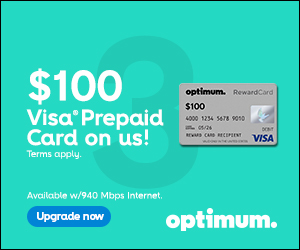
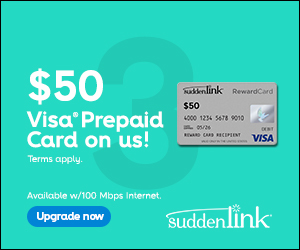
Altice Update

diff --git a/A/Altice/2021/September/ads/SDL_ANI_UPG_20(100Mbps)/728x90/728x90.html b/A/Altice/2021/September/ads/SDL_ANI_UPG_20(100Mbps)/728x90/728x90.html
@@ -119,9 +119,9 @@
         font-size: 72%;
       }
       .price-text {
-        top: 26px;
+        top: 10px;
         left: 22px;
-        font-size: 24px;
+        font-size: 21px;
         line-height: 1.1;
       }
       .eyebrow-text {
@@ -136,8 +136,8 @@
         font-family: Altice-Regular;
       }
       .disclaimer {
-        top: 57px;
-        left: 23px;
+        top: 71px;
+        left: 22px;
         font-size: 10px;
         line-height: 1;
         font-family: Altice-Regular;
@@ -155,14 +155,13 @@ amo.registerClick("clickUrl", "https://www.altice.com");
 amo.registerAttribute("ctaText", "TEXT", "Upgrade now");
 amo.registerAttribute("frameText1", "TEXT", "<div style='top: 8px;left: 25px;font-size: 18.3px;'>Suddenlink introduces</div>");
 amo.registerAttribute("frameText12", "TEXT", "&nbsp;");
-amo.registerAttribute("frameText21", "TEXT", "<div class='price-text'>Upgrade to <font class='coloredText'>1 Gig</font> Internet at our best price</div>");
-amo.registerAttribute("frameText22", "TEXT", "<div class='disclaimer'>Wired connection up to 940 Mbps. WiFi speeds may vary. Speeds, prices & availablity vary by area.</div>");
-amo.registerAttribute("frameText31", "TEXT", "<div class='title text-white'>“Best Gigabit Deal”</div>");
-amo.registerAttribute("frameText32", "TEXT", "<div class='title text-white' style='top: 52px;font-size: 16px;'>– CNET May 2021</div>");
+amo.registerAttribute("frameText21", "TEXT", "<div class='price-text'>Upgrade to 100 Mbps<br>Internet <font class='coloredText'>$20</font> <small class='monthly'>more /mo.</small><div class='price-terms'>Plus taxes</div></div>");
+amo.registerAttribute("frameText22", "TEXT", "<div class='disclaimer'>Wired connection up to 100 Mbps. WiFi speeds may vary. Speeds, prices & availablity vary by area.</div>");
+amo.registerAttribute("frameText31", "TEXT", "<div class='title text-white'>No data caps<br>& change your speed anytime</div>");
 amo.registerAttribute("frameText41", "TEXT", "<div class='text-white' style='top: 8px;left: 23px;font-size: 30px;line-height: 1;'>$50</div><div class='text-white' style='top: 37px;left: 23px;font-size: 22px;line-height: 1;'>Visa<sup style='vertical-align: top;font-size: 60%;'>®</sup> Prepaid<br>Card on us!</div>");
-amo.registerAttribute("frameText42", "TEXT", "<div class='disclaimer text-white' style='top: 66px;left: 304px;font-size: 9.9px;'>Terms apply. Available w/940 Mbps Internet.</div>");
-amo.registerAttribute("frameText51", "TEXT", "<div class='price-text' style='top:27px;'><div class='eyebrow-text text-blue'>Exclusive</div>Upgrade to<br><font class='coloredText'>1 Gig</font> Internet</div>");
-amo.registerAttribute("frameText52", "TEXT", "<div style='top: 9px;left: 265px;width: 360px;transform: scale(0.78);transform-origin: top left;'><div class='bulletedText'>$50 Visa<sup style='vertical-align: top;font-size: 75%;'>®</sup> Prepaid Card</div><div class='bulletedText'>Built in security<div class='AlticeRegular' style='margin-top: 3px;font-size: 64%;'>Terms apply.</div></div></div>");
+amo.registerAttribute("frameText42", "TEXT", "<div class='disclaimer text-white' style='top: 66px;left: 304px;font-size: 9.9px;'>Terms apply. Available w/100 Mbps Internet.</div>");
+amo.registerAttribute("frameText51", "TEXT", "<div class='price-text' style='top:23px;'><div class='eyebrow-text text-blue'>Exclusive</div>Upgrade to 100 Mbps<br>Internet <font class='coloredText'>$20</font> <small class='monthly'>more /mo.</small><div class='price-terms'>Plus taxes</div></div>");
+amo.registerAttribute("frameText52", "TEXT", "<div style='top: 9px;left: 335px;'><div class='text-blue' style='font-size: 13px;'>Plus get:</div><div style='width: 360px;transform: scale(0.78);transform-origin: top left;'><div class='bulletedText'>$50 Visa<sup style='vertical-align: top;font-size: 75%;'>®</sup> Prepaid Card</div><div class='bulletedText'>No data caps<div class='AlticeRegular' style='margin-top: 3px;font-size: 64%;'>Terms apply.</div></div></div></div>");
 </script>
 <!-- End of overrode asset attributes values -->
 <script type="text/javascript">
@@ -205,7 +204,6 @@ amo.registerAttribute("frameText52", "TEXT", "<div style='top: 9px;left: 265px;w
       name: 'frame3',
       assets: {
         frameAsset3: "728x90_OPT_Upgrade_1Gig_Internet_Img_NumberTwo_Frame_03.png",
-        frameAsset31: "728x90_OPT_Upgrade_1Gig_Internet_Logo_Cnet_Frame_03.png",
       },
       style: {
         

diff --git a/A/Altice/2021/September/ads/SDL_ANI_UPG_20(100Mbps)/300x250/300x250.html b/A/Altice/2021/September/ads/SDL_ANI_UPG_20(100Mbps)/300x250/300x250.html
@@ -158,14 +158,13 @@ amo.registerClick("clickUrl", "https://www.altice.com");
 amo.registerAttribute("ctaText", "TEXT", "Upgrade now");
 amo.registerAttribute("frameText1", "TEXT", "<div style='top: 63px;left: 33px;font-size: 22.5px;'>Suddenlink introduces</div>");
 amo.registerAttribute("frameText12", "TEXT", "&nbsp;");
-amo.registerAttribute("frameText21", "TEXT", "<div class='price-text'>Upgrade to<br><font class='coloredText'>1 Gig</font> Internet at<br>our best price</div>");
-amo.registerAttribute("frameText22", "TEXT", "<div class='disclaimer'>Wired connection up to 940 Mbps.<br>WiFi speeds may vary. Speeds,<br>prices & availablity vary by area.</div>");
-amo.registerAttribute("frameText31", "TEXT", "<div class='title text-white'>“Best Gigabit Deal”</div>");
-amo.registerAttribute("frameText32", "TEXT", "<div class='title text-white' style='top: 114px;font-size: 20px;'>– CNET May 2021</div>");
+amo.registerAttribute("frameText21", "TEXT", "<div class='price-text'>Upgrade to<br>100 Mbps Internet<br><font class='coloredText'>$20</font> <small class='monthly'>more /mo.</small><div class='price-terms'>Plus taxes</div></div>");
+amo.registerAttribute("frameText22", "TEXT", "<div class='disclaimer'>Wired connection up to 100 Mbps.<br>WiFi speeds may vary. Speeds,<br>prices & availablity vary by area.</div>");
+amo.registerAttribute("frameText31", "TEXT", "<div class='title text-white'>No data caps<br>& change your speed anytime</div>");
 amo.registerAttribute("frameText41", "TEXT", "<div class='text-white' style='top: 65px;left: 26px;font-size: 44px;line-height: 1;'>$50</div><div class='text-white' style='top: 110px;left: 27px;font-size: 22px;line-height: 0.95;'>Visa<sup style='vertical-align: top;font-size: 40%;margin-right: -4px;'>®</sup> Prepaid<br>Card on us!</div><div class='AlticeRegular text-white' style='position: absolute;top: 153px;left: 28px;font-size: 9px;'>Terms apply.</div>");
-amo.registerAttribute("frameText42", "TEXT", "<div class='disclaimer text-white'>Available w/940 Mbps Internet.</div>");
-amo.registerAttribute("frameText51", "TEXT", "<div class='price-text'><div class='eyebrow-text text-blue'>Exclusive</div>Upgrade to<br><font class='coloredText'>1 Gig</font> Internet</div>");
-amo.registerAttribute("frameText52", "TEXT", "<div style='top: 137px;left: 26px;width: 360px;transform: scale(0.78);transform-origin: top left;'><div class='bulletedText'>$50 Visa<sup style='vertical-align: top;font-size: 75%;'>®</sup> Prepaid Card</div><div class='bulletedText'>Built in security<div class='AlticeRegular' style='margin-top: 3px;font-size: 64%;'>Terms apply.</div></div></div>");
+amo.registerAttribute("frameText42", "TEXT", "<div class='disclaimer text-white'>Available w/100 Mbps Internet.</div>");
+amo.registerAttribute("frameText51", "TEXT", "<div class='price-text' style='top:39px;'><div class='eyebrow-text text-blue'>Exclusive</div>Upgrade to<br>100 Mbps Internet<br><font class='coloredText'>$20</font> <small class='monthly'>more /mo.</small><div class='price-terms'>Plus taxes</div></div>");
+amo.registerAttribute("frameText52", "TEXT", "<div style='top: 137px;left: 26px;'><div class='text-blue' style='font-size: 15.5px;'>Plus get:</div><div style='width: 360px;transform: scale(0.78);transform-origin: top left;'><div class='bulletedText'>$50 Visa<sup style='vertical-align: top;font-size: 75%;'>®</sup> Prepaid Card</div><div class='bulletedText'>No data caps<div class='AlticeRegular' style='margin-top: 3px;font-size: 64%;'>Terms apply.</div></div></div></div>");
 </script>
 <!-- End of overrode asset attributes values -->
 <script type="text/javascript">
@@ -208,7 +207,6 @@ amo.registerAttribute("frameText52", "TEXT", "<div style='top: 137px;left: 26px;
       name: 'frame3',
       assets: {
         frameAsset3: "300x250_OPT_Upgrade_1Gig_Internet_Img_NumberTwo_Frame_03.png",
-        frameAsset31: "300x250_OPT_Upgrade_1Gig_Internet_Logo_Cnet_Frame_03.png",
       },
       style: {
         

diff --git a/A/Altice/2021/September/ads/SDL_ANI_UPG_20(100Mbps)/160x600/160x600.html b/A/Altice/2021/September/ads/SDL_ANI_UPG_20(100Mbps)/160x600/160x600.html
@@ -159,14 +159,14 @@ amo.registerClick("clickUrl", "https://www.altice.com");
 amo.registerAttribute("ctaText", "TEXT", "Upgrade now");
 amo.registerAttribute("frameText1", "TEXT", "<div style='top: 139px;left: 16px;font-size: 12.8px;line-height:1.05;'>Suddenlink<br>introduces</div>");
 amo.registerAttribute("frameText12", "TEXT", "&nbsp;");
-amo.registerAttribute("frameText21", "TEXT", "<div class='price-text' style='top:140px;'>Upgrade to<br><font class='coloredText'>1 Gig</font> Internet at<br>our best price</div>");
-amo.registerAttribute("frameText22", "TEXT", "<div class='disclaimer'>Wired connection up to<br>940 Mbps. WiFi speeds<br>may vary. Speeds, prices &<br>availablity vary by area.</div>");
+amo.registerAttribute("frameText21", "TEXT", "<div class='price-text' style='top:140px;'>Upgrade to<br>100 Mbps Internet at<br>our best price</div>");
+amo.registerAttribute("frameText22", "TEXT", "<div class='disclaimer'>Wired connection up to<br>100 Mbps. WiFi speeds<br>may vary. Speeds, prices &<br>availablity vary by area.</div>");
 amo.registerAttribute("frameText31", "TEXT", "<div class='title text-white'>“Best Gigabit Deal”</div>");
 amo.registerAttribute("frameText32", "TEXT", "<div class='title text-white' style='top: 205px;font-size: 15px;'>– CNET May 2021</div>");
 amo.registerAttribute("frameText41", "TEXT", "<div class='text-white' style='top: 138px;left: 10px;width: 140px;font-size: 32px;text-align: center;line-height: 1;'>$50</div><div class='text-white' style='top: 168px;left: 10px;width: 140px;font-size: 20px;text-align: center;line-height: 1.05;'>Visa<sup style='vertical-align: top;font-size: 60%;'>®</sup> Prepaid<br>Card on us!</div><div class='AlticeRegular text-white' style='position: absolute;top: 208px;left: 10px;width: 140px;text-align: center;font-size: 10px;'>Terms apply.</div>");
-amo.registerAttribute("frameText42", "TEXT", "<div class='disclaimer text-white'>Available w/940 Mbps Internet.</div>");
-amo.registerAttribute("frameText51", "TEXT", "<div class='price-text'><div class='eyebrow-text text-blue'>Exclusive</div>Upgrade to<br><font class='coloredText'>1 Gig</font> Internet</div>");
-amo.registerAttribute("frameText52", "TEXT", "<div style='top: 280px;left: 16px;width: 150px;transform: scale(0.83);transform-origin: top left;'><div class='bulletedText'>$50 Visa<sup style='vertical-align: top;font-size: 75%;'>®</sup> Prepaid Card</div><div class='bulletedText'>Built in security<div class='AlticeRegular' style='margin-top: 3px;font-size: 64%;'>Terms apply.</div></div></div>");
+amo.registerAttribute("frameText42", "TEXT", "<div class='disclaimer text-white'>Available w/100 Mbps Internet.</div>");
+amo.registerAttribute("frameText51", "TEXT", "<div class='price-text'><div class='eyebrow-text text-blue'>Exclusive</div>Upgrade to<br>100 Mbps Internet</div>");
+amo.registerAttribute("frameText52", "TEXT", "<div style='top: 280px;left: 16px;width: 150px;transform: scale(0.83);transform-origin: top left;'><div class='bulletedText'>$50 Visa<sup style='vertical-align: top;font-size: 75%;'>®</sup> Prepaid Card</div><div class='bulletedText'>No data caps<div class='AlticeRegular' style='margin-top: 3px;font-size: 64%;'>Terms apply.</div></div></div>");
 </script>
 <!-- End of overrode asset attributes values -->
 <script type="text/javascript">

diff --git a/A/Altice/2021/September/ads/SDL_ANI_UPG_20(100Mbps)/300x600/300x600.html b/A/Altice/2021/September/ads/SDL_ANI_UPG_20(100Mbps)/300x600/300x600.html
@@ -158,14 +158,14 @@ amo.registerClick("clickUrl", "https://www.altice.com");
 amo.registerAttribute("ctaText", "TEXT", "Upgrade now");
 amo.registerAttribute("frameText1", "TEXT", "<div style='top: 149px;left: 29px;font-size: 22.5px;'>Suddenlink introduces</div>");
 amo.registerAttribute("frameText12", "TEXT", "&nbsp;");
-amo.registerAttribute("frameText21", "TEXT", "<div class='price-text'>Upgrade to<br><font class='coloredText'>1 Gig</font> Internet at<br>our best price</div>");
-amo.registerAttribute("frameText22", "TEXT", "<div class='disclaimer'>Wired connection up to 940 Mbps.<br>WiFi speeds may vary. Speeds,<br>prices & availablity vary by area.</div>");
+amo.registerAttribute("frameText21", "TEXT", "<div class='price-text'>Upgrade to<br>100 Mbps Internet at<br>our best price</div>");
+amo.registerAttribute("frameText22", "TEXT", "<div class='disclaimer'>Wired connection up to 100 Mbps.<br>WiFi speeds may vary. Speeds,<br>prices & availablity vary by area.</div>");
 amo.registerAttribute("frameText31", "TEXT", "<div class='title text-white'>“Best Gigabit Deal”</div>");
 amo.registerAttribute("frameText32", "TEXT", "<div class='title text-white' style='top: 229px;font-size: 20px;'>– CNET May 2021</div>");
 amo.registerAttribute("frameText41", "TEXT", "<div class='text-white' style='top: 149px;left: 30px;width: 240px;font-size: 50px;text-align: center;line-height: 1;'>$50</div><div class='text-white' style='top: 196px;left: 30px;width: 240px;font-size: 28px;text-align: center;line-height: 1.1;'>Visa<sup style='vertical-align: top;font-size: 60%;'>®</sup> Prepaid<br>Card on us!</div><div class='AlticeRegular text-white' style='position: absolute;top: 253px;left: 30px;width: 240px;text-align: center;font-size: 14px;'>Terms apply.</div>");
-amo.registerAttribute("frameText42", "TEXT", "<div class='disclaimer text-white'>Available w/940 Mbps Internet.</div>");
-amo.registerAttribute("frameText51", "TEXT", "<div class='price-text'><div class='eyebrow-text text-blue'>Exclusive</div>Upgrade to<br><font class='coloredText'>1 Gig</font> Internet</div>");
-amo.registerAttribute("frameText52", "TEXT", "<div style='top: 300px;left: 33px;width: 360px;transform: scale(1);transform-origin: top left;'><div class='bulletedText'>$50 Visa<sup style='vertical-align: top;font-size: 75%;'>®</sup> Prepaid Card</div><div class='bulletedText'>Built in security<div class='AlticeRegular' style='margin-top: 3px;font-size: 64%;'>Terms apply.</div></div></div>");
+amo.registerAttribute("frameText42", "TEXT", "<div class='disclaimer text-white'>Available w/100 Mbps Internet.</div>");
+amo.registerAttribute("frameText51", "TEXT", "<div class='price-text'><div class='eyebrow-text text-blue'>Exclusive</div>Upgrade to<br>100 Mbps Internet</div>");
+amo.registerAttribute("frameText52", "TEXT", "<div style='top: 300px;left: 33px;width: 360px;transform: scale(1);transform-origin: top left;'><div class='bulletedText'>$50 Visa<sup style='vertical-align: top;font-size: 75%;'>®</sup> Prepaid Card</div><div class='bulletedText'>No data caps<div class='AlticeRegular' style='margin-top: 3px;font-size: 64%;'>Terms apply.</div></div></div>");
 </script>
 <!-- End of overrode asset attributes values -->
 <script type="text/javascript">

diff --git a/A/Altice/2021/September/ads/SDL_ANI_UPG_20(100Mbps)/300x50/300x50.html b/A/Altice/2021/September/ads/SDL_ANI_UPG_20(100Mbps)/300x50/300x50.html
@@ -123,10 +123,10 @@
         font-size: 60%;
       }
       .title {
-        top: 5px;
+        top: 7px;
         left: 7px;
         font-size: 13px;
-        line-height: 1;
+        line-height: 1.1;
       }
       .title-small {
         top: 4px;
@@ -166,13 +166,12 @@
 amo.registerClick("clickUrl", "https://www.altice.com");
 amo.registerAttribute("ctaText", "TEXT", "Upgrade now");
 amo.registerAttribute("frameText1", "TEXT", "&nbsp;");
-amo.registerAttribute("frameText21", "TEXT", "<div class='title' style='top: 10px;left:9px;font-size: 14px;line-height: 1.2;'>Upgrade to <font class='coloredText'>1 Gig</font> Internet<br>at our best price</div>");
-amo.registerAttribute("frameText31", "TEXT", "<div class='text-white' style='top: 10px;left: 9px;font-size: 12.6px;''>“Best Gigabit Deal”</div>");
-amo.registerAttribute("frameText32", "TEXT", "<div class='text-white' style='top: 27px;left: 9px;font-size: 8px;'>– CNET May 2021</div>");
-amo.registerAttribute("frameText41", "TEXT", "<div class='title text-white' style='top:7px;'>$50  Visa<sup>®</sup> Prepaid Card on us!</div>");
+amo.registerAttribute("frameText21", "TEXT", "<div class='title'>Upgrade to 100 Mbps<br>Internet <font class='coloredText'>$20</font> <small class='monthly'>more /mo.</small><div class='price-terms'>Plus taxes</div></div>");
+amo.registerAttribute("frameText31", "TEXT", "<div class='title text-white' style='top: 12px;'>No data caps &<br>change your speed anytime</div>");
+amo.registerAttribute("frameText41", "TEXT", "<div class='title text-white'>$50  Visa<sup>®</sup> Prepaid Card on us!</div>");
 amo.registerAttribute("frameText42", "TEXT", "<div class='disclaimer text-white' style='top: 22px;font-size: 8.8px;'>Terms apply.</div>");
-amo.registerAttribute("frameText43", "TEXT", "<div class='disclaimer text-white' style='top: 35px;font-size: 8.8px;'>Available w/940 Mbps Internet.</div>");
-amo.registerAttribute("frameText51", "TEXT", "<div class='title' style='top: 23px;left:9px;font-size: 14px;line-height: 1.2;'><div class='eyebrow-text text-blue'>Exclusive</div>Upgrade to <font class='coloredText'>1 Gig</font> Internet</div>");
+amo.registerAttribute("frameText43", "TEXT", "<div class='disclaimer text-white' style='top: 35px;font-size: 8.8px;'>Available w/100 Mbps Internet.</div>");
+amo.registerAttribute("frameText51", "TEXT", "<div class='title'>Upgrade to 100 Mbps<br>Internet <font class='coloredText'>$20</font> <small class='monthly'>more /mo.</small><div class='price-terms'>Plus taxes</div></div>");
 </script>
 <!-- End of overrode asset attributes values -->
 <script type="text/javascript">
@@ -212,7 +211,7 @@ amo.registerAttribute("frameText51", "TEXT", "<div class='title' style='top: 23p
     {
       name: 'frame3',
       assets: {
-        frameAsset3: "300x50_OPT_Upgrade_1Gig_Internet_Logo_Cnet_Frame_03.png",
+        frameAsset3: "1x1.png",
       },
       style: {
         

diff --git a/A/Altice/2021/September/ads/SDL_ANI_UPG_20(100Mbps)/320x50/320x50.html b/A/Altice/2021/September/ads/SDL_ANI_UPG_20(100Mbps)/320x50/320x50.html
@@ -123,10 +123,10 @@
         font-size: 60%;
       }
       .title {
-        top: 5px;
+        top: 7px;
         left: 7px;
         font-size: 13px;
-        line-height: 1;
+        line-height: 1.1;
       }
       .title-small {
         top: 4px;
@@ -166,13 +166,12 @@
 amo.registerClick("clickUrl", "https://www.altice.com");
 amo.registerAttribute("ctaText", "TEXT", "Upgrade now");
 amo.registerAttribute("frameText1", "TEXT", "&nbsp;");
-amo.registerAttribute("frameText21", "TEXT", "<div class='title' style='top: 10px;left:9px;font-size: 14px;line-height: 1.2;'>Upgrade to <font class='coloredText'>1 Gig</font> Internet<br>at our best price</div>");
-amo.registerAttribute("frameText31", "TEXT", "<div class='text-white' style='top: 10px;left: 9px;font-size: 12.6px;''>“Best Gigabit Deal”</div>");
-amo.registerAttribute("frameText32", "TEXT", "<div class='text-white' style='top: 27px;left: 9px;font-size: 8px;'>– CNET May 2021</div>");
-amo.registerAttribute("frameText41", "TEXT", "<div class='title text-white' style='top:7px;'>$50  Visa<sup>®</sup> Prepaid Card on us!</div>");
+amo.registerAttribute("frameText21", "TEXT", "<div class='title'>Upgrade to 100 Mbps<br>Internet <font class='coloredText'>$20</font> <small class='monthly'>more /mo.</small><div class='price-terms'>Plus taxes</div></div>");
+amo.registerAttribute("frameText31", "TEXT", "<div class='title text-white' style='top: 12px;'>No data caps &<br>change your speed anytime</div>");
+amo.registerAttribute("frameText41", "TEXT", "<div class='title text-white'>$50  Visa<sup>®</sup> Prepaid Card on us!</div>");
 amo.registerAttribute("frameText42", "TEXT", "<div class='disclaimer text-white' style='top: 22px;font-size: 8.8px;'>Terms apply.</div>");
-amo.registerAttribute("frameText43", "TEXT", "<div class='disclaimer text-white' style='top: 35px;font-size: 8.8px;'>Available w/940 Mbps Internet.</div>");
-amo.registerAttribute("frameText51", "TEXT", "<div class='title' style='top: 23px;left:9px;font-size: 14px;line-height: 1.2;'><div class='eyebrow-text text-blue'>Exclusive</div>Upgrade to <font class='coloredText'>1 Gig</font> Internet</div>");
+amo.registerAttribute("frameText43", "TEXT", "<div class='disclaimer text-white' style='top: 35px;font-size: 8.8px;'>Available w/100 Mbps Internet.</div>");
+amo.registerAttribute("frameText51", "TEXT", "<div class='title'>Upgrade to 100 Mbps<br>Internet <font class='coloredText'>$20</font> <small class='monthly'>more /mo.</small><div class='price-terms'>Plus taxes</div></div>");
 </script>
 <!-- End of overrode asset attributes values -->
 <script type="text/javascript">
@@ -212,7 +211,7 @@ amo.registerAttribute("frameText51", "TEXT", "<div class='title' style='top: 23p
     {
       name: 'frame3',
       assets: {
-        frameAsset3: "320x50_OPT_Upgrade_1Gig_Internet_Logo_Cnet_Frame_03.png",
+        frameAsset3: "1x1.png",
       },
       style: {
         
